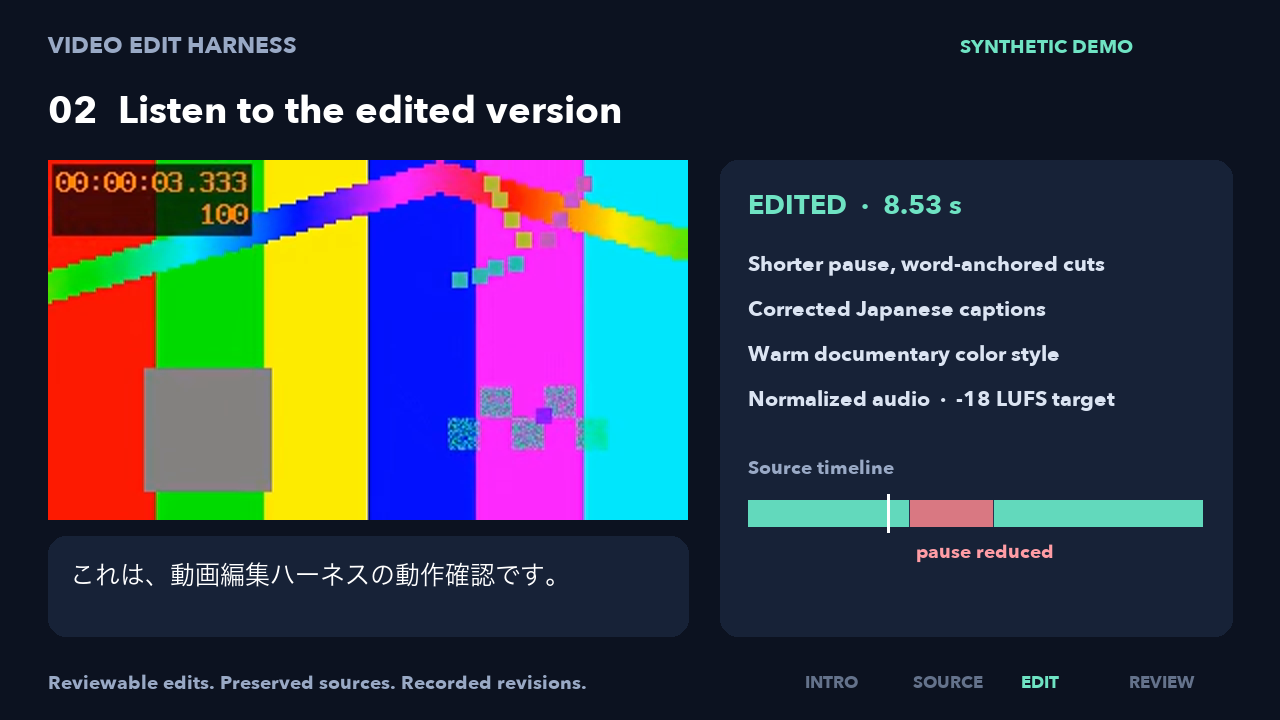
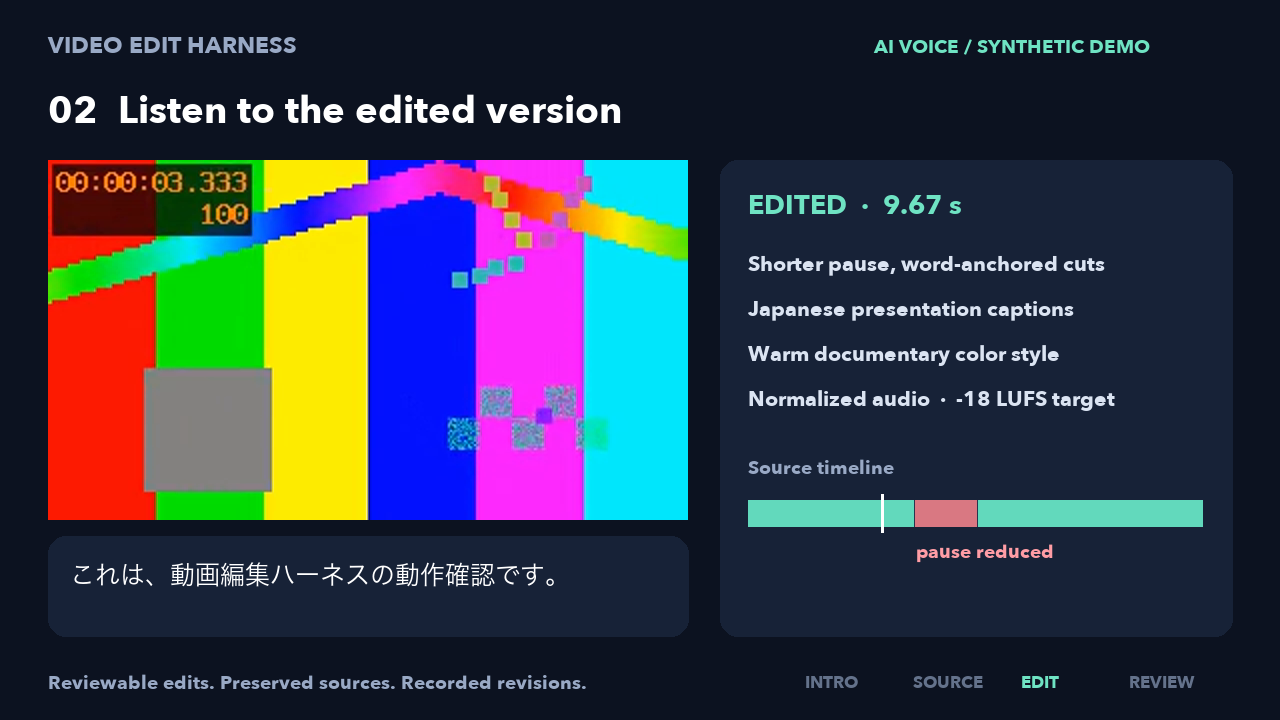
fix: restore CLI grading and improve bilingual demo

diff --git a/tests/test_cli_render_execution.py b/tests/test_cli_render_execution.py
@@ -1,0 +1,35 @@
+"""Exercise CLI dispatch all the way to LUT generation without encoding media."""
+import contextlib
+import tempfile
+import unittest
+from pathlib import Path
+from unittest.mock import patch
+
+from video_harness import cli
+
+
+class CLIRenderExecution(unittest.TestCase):
+    def test_grading_commands_reach_lut_and_renderer(self):
+        for command in ('preview', 'render', 'compare'):
+            with self.subTest(command=command), tempfile.TemporaryDirectory() as tmp:
+                root = Path(tmp)
+                cfg = {'name': 'demo', 'source': str(root/'source.mp4'),
+                       'input_color': 'rec709', 'use_case': 'indoor_talk',
+                       'style': 'natural', 'preview': {'start': 0, 'duration': 1}}
+                argv = ['video-harness', command, str(root/'project.json'),
+                        '--output', str(root/'result')]
+                if command in ('preview', 'compare'):
+                    argv += ['--styles', 'natural']
+                if command == 'compare':
+                    argv += ['--use-cases', 'indoor_talk']
+                with patch('sys.argv', argv), \
+                     patch.object(cli, 'project', return_value=cfg), \
+                     patch.object(cli, 'probe', return_value={'format': {'duration': '2'}}), \
+                     patch.object(cli, 'evidence_run', return_value=contextlib.nullcontext()), \
+                     patch.object(cli, 'build_lut', return_value=root/'look.cube') as lut, \
+                     patch.object(cli, 'render', return_value=root/'video.mp4') as render, \
+                     patch.object(cli, 'evaluate'), patch.object(cli, 'gallery'):
+                    cli.main()
+                lut.assert_called_once()
+                render.assert_called_once()
+                self.assertEqual(render.call_args.args[-1], command != 'render')

diff --git a/video_harness/cli.py b/video_harness/cli.py
@@ -133,7 +133,6 @@ def main():
    with evidence_run(cfg,args.cmd,out,{'plan_sha256':fingerprint(args.plan)['sha256']}):
     if args.cmd=='edit-export':
      export_edit(cfg,plan,out)
-     from .color import build_lut
      cfg['_resolved']=resolve(cfg);build_lut(cfg,None,out/'look.cube')
      from .fcp_check import validate_dtd
      write(out/'dtd-verification.json',validate_dtd(out/'timeline.fcpxml',out/'dtd.log'))

diff --git a/video_harness/__init__.py b/video_harness/__init__.py
@@ -1,3 +1,3 @@
 """Local video editing tools. Originals are never overwritten."""
 
-__version__ = "0.1.0a1"
+__version__ = "0.1.0a2"

diff --git a/README.ja.md b/README.ja.md
@@ -1,0 +1,103 @@
+[English](README.md) | 日本語
+
+# Video Edit Harness
+
+対話動画の編集、色の比較、音声の正規化、字幕、Final Cut Pro XML への引き継ぎを、ローカルで確認しながら進めるためのワークフローです。セッションには、編集方針、文字起こし、単語に紐づく編集計画、レンダリング結果、時刻付きのフィードバック、納品時の確認記録をまとめて保存します。元のメディアと過去の改訂版も保持します。
+
+これは **アルファ版** です。POSIX ツールを備えた macOS または Linux で動作します。Final Cut Pro（FCP）の GUI での読み込みと確認には、macOS とインストール済みの FCP が必要です。FCPXML の検証だけでは、FCP でプロジェクトを開いて再生できたことの証明にはなりません。
+
+## デモ
+
+[![29 秒のデモを見る：元映像、編集結果、修正の流れ](docs/demo/preview.gif)](https://github.com/ekusiadadus/video-edit-harness/releases/download/v0.1.0-alpha.2/video-edit-harness-demo-v2.mp4)
+
+**[音声付きデモを見る・ダウンロードする（MP4）](https://github.com/ekusiadadus/video-edit-harness/releases/download/v0.1.0-alpha.2/video-edit-harness-demo-v2.mp4)** — 元映像 → 間を短くした版 → 字幕・色・音声の修正 → 単語の保持 → FCP への引き継ぎを示します。上の GIF は無音です。MP4 には編集前後の日本語音声が含まれます。
+
+このデモには **OpenAI の `marin` によるAI生成の日本語音声**とテストパターンを使用しています。編集部分は実際にこのツールでレンダリングしたものです。前後の説明画面はワークフローを図示しています。測定結果と制約は[デモの出典・検証記録](docs/demo/README.md)をご覧ください。
+
+Codexで実際の動画を編集する画面を収録する場合は、[Screen Studioの録画手順](docs/SCREEN_RECORDING.ja.md)をご覧ください。上のデモは説明画面を組み合わせたもので、Codex画面の録画ではありません。
+
+## インストール
+
+必要なもの：Python 3.11 以降、[uv](https://docs.astral.sh/uv/)、`PATH` 上の `ffmpeg` と `ffprobe`。クラウド文字起こしには、さらにプロバイダーの認証情報と、その素材をアップロードする許可が必要です。ローカルの Whisper モデルはインストールも実行もしません。
+
+```sh
+git clone --branch v0.1.0-alpha.2 https://github.com/ekusiadadus/video-edit-harness.git
+cd video-edit-harness
+uv sync --locked
+uv run video-harness --help
+uv run video-harness session --help
+```
+
+[リリース](https://github.com/ekusiadadus/video-edit-harness/releases/tag/v0.1.0-alpha.2)には、wheel、ソースアーカイブ、別配布のスキル ZIP、SHA256SUMS が含まれます。wheel にはプリセットが含まれます。このチェックアウトの外で使用する場合、出力先の初期値は現在の作業ディレクトリです。このリリースは PyPI には公開していません。
+
+同梱の `video-editing` スキルをプロジェクトで使うには、`.agents/skills/video-editing` をそのプロジェクトの `.agents/skills/` にコピーします。Claude Code では、相対シンボリックリンクまたはコピーによる `.claude/skills/video-editing` と `CLAUDE.md` を通じて同じディレクトリを利用できます。代わりに、`~/.agents/skills/video-editing` または `~/.claude/skills/video-editing` にコピーしてもかまいません。このチェックアウト以外からスキルを呼び出す場合は、`VIDEO_EDIT_HARNESS_ROOT` にこのチェックアウトのパスを設定してください。更新時は、確認済みのタグに固定してください。スキルの指示だけでは、アップロードや公開は許可されません。
+
+簡潔な手順は[日本語ワークフロー](docs/WORKFLOW.ja.md)を参照してください。スキルのディレクトリ構成は、[Codex のスキル文書](https://developers.openai.com/codex/skills/)と[Claude Code のスキル文書](https://code.claude.com/docs/en/skills)に従っています。
+
+個人用にスキルをインストールするには、スキル ZIP から展開した `video-editing/` ディレクトリを `~/.agents/skills/`（Codex）または `~/.claude/skills/`（Claude Code）にコピーし、チェックアウトの場所を指定します。
+
+```sh
+export VIDEO_EDIT_HARNESS_ROOT="/absolute/path/to/video-edit-harness"
+```
+
+Python wheel は `uv pip install /path/to/video_edit_harness-0.1.0a2-py3-none-any.whl` で仮想環境にもインストールできます。その環境から `video-harness` を実行してください。単独配布のスキルには、テンプレートとエージェント向け指示を参照するため、このチェックアウトが必要です。
+
+## 対話動画のセッション
+
+プロジェクトのテンプレートをコピーし、`source` に素材の**実在する絶対パス**を設定します。素材に合わせて `input_color` を `rec709` または `apple_log` にし、音声トラックとプレビュー区間を確認してください。JSON に認証情報を入れないでください。テンプレート内のパスと単語 ID は仮の値です。
+
+```sh
+cp projects/talk.template.json projects/my-talk.json
+# Edit projects/my-talk.json: source, input_color, preview interval, and editorial brief.
+uv run video-harness session start projects/my-talk.json output/my-session \
+  --brief-file examples/workflow-brief.json --actor codex
+uv run video-harness session status output/my-session --deep
+```
+
+素材のアップロードが許可されたら、`OPENAI_API_KEY` を設定して文字起こしします。自動ルーティングでは、まず OpenAI を試し、Azure OpenAI が設定されていれば次に試します。Azure では `AZURE_OPENAI_API_KEY`、`AZURE_OPENAI_ENDPOINT`、`AZURE_OPENAI_TRANSCRIPTION_DEPLOYMENT`、`AZURE_OPENAI_TIMESTAMP_DEPLOYMENT` を使用し、`AZURE_OPENAI_API_VERSION` は任意です。文字起こしには API 料金が発生します。意味内容を表すテキストと単語の時刻は別々の API 応答から取得します。対応関係を推測で作らず、不一致の警告を確認してください。既存の封印済み文字起こしは `session transcript SESSION TRANSCRIPT_JSON` で追加できます。
+
+```sh
+uv run --extra transcription-cloud video-harness session transcribe output/my-session
+uv run video-harness session context output/my-session --words
+```
+
+返された単語 ID と時刻を使い、章の区間を順序付きで記したストーリー仕様を作成します。省略する箇所にはそれぞれ、正確な単語 ID、省略理由、目標 ID を指定してください。`examples/workflow-story.json` が示すのは **JSON の形式だけ** です。そこにある ID はあなたの素材を指しません。方針、改訂、レビューの各サンプルも同様です。語尾、呼吸、強調、話題の切り替わり、音声だけで内容が伝わるかを確認してください。
+
+```sh
+uv run video-harness session plan output/my-session --spec-file my-story.json --actor codex
+uv run video-harness session approve output/my-session --actor codex --note 'Selected the reviewed plan'
+uv run video-harness session render output/my-session
+uv run video-harness session status output/my-session
+```
+
+`approve` は、指定した実行者が案を選択したことを記録します。`--actor human` は実際に人が判断した場合にのみ使用してください。エージェントによる選択は人間の承認ではありません。最初のレンダリングはプレビューです。映像、音声のみの出力、字幕、フレームの対応関係を確認してください。範囲を絞って確認するには、`session inspect SESSION RENDER_ID --start 432 --duration 8` を実行すると、フィルムストリップ、波形、試聴用音声、元の単語の文脈が作成されます。生成画像や波形だけでは、聞き心地は判断できません。
+
+`session review-page SESSION RENDER_ID` で時刻付きのフィードバックページを作成し、保存した JSON を `session feedback SESSION --data-file FILE` で取り込みます。編集内容の変更には `session revise SESSION --operations-file FILE --feedback-id ID --actor codex --note REASON`、色・音声・字幕の変更には `session address-feedback SESSION ID --actor codex --note REASON` を使います。これらが記録するのは修正候補です。フィードバックを解決するには新しいレンダリング結果を確認してください。レビューレポートは、対象レンダリングの正確な SHA-256 に紐づけ、意味、テンポ、音声だけでの分かりやすさ、カット境界、字幕、色を評価する必要があります。`examples/workflow-review.json` は未レビューの形式例であり、合格済みのレポートではありません。
+
+受け入れたプレビューを基に全編をレンダリングして確認し、その後 FCP 向けにパッケージ化します。
+
+```sh
+uv run video-harness session render output/my-session --full
+uv run video-harness session package output/my-session RENDER_ID --target fcp
+# In FCP on macOS, import and inspect the actual package.
+uv run video-harness session delivery-check output/my-session DELIVERY_ID fcp_import pass gui \
+  --actor human --note 'Imported and checked source links in FCP'
+uv run video-harness session finish output/my-session DELIVERY_ID --actor human
+```
+
+パッケージの FCPXML が対象とするのは、単一素材によるフラットなタイムラインです。必要に応じて、LUT、SRT 字幕、空間マスク、最終音声を個別に適用して確認してください。`finish` の前に、実際に行った GUI 読み込み、再生、色調整、字幕、ミックスの確認を `delivery-check` に記録します。未実施の確認を記録しないでください。FCP から返されたフラットな XML は `session import-fcp` で新しい計画として取り込めます。複雑な FCP タイムラインはこの仕様の対象外です。`session handoff` と `session resume` は、セッション履歴を保持しながらエージェント間で作業を引き継ぐためのものです。
+
+## 色・音声・検証
+
+`use_cases/` の 7 つの用途と `styles/` の 6 つのスタイルは組み合わせて使用できます。室内の対話映像には `indoor_talk` + `natural` を基準にします。`video-harness resolve PROJECT` で適用設定を確認し、`preview` で同じ素材区間を比較し、`review` で人間の評価を記録し、レビュー済みの候補にのみ `adopt` を使ってください。[プリセットの指針](docs/PRESET_CATALOG.md)も参照してください。静的な領域補正は顔を追跡しません。Apple Log 用 LUT には Log から Rec.709 への変換が含まれるため、使用時は FCP の Camera LUT を無効にしてください。HDR/HLG と Apple Log 2 には別途対応する変換が必要です。初期値の -16 LUFS と -1.5 dBTP はプロジェクト上の選択であり、プラットフォームの要件ではありません。
+
+```sh
+make doctor
+make test
+uv run video-harness resolve projects/my-talk.json
+uv run video-harness verify /path/to/final.mp4 --output output/final-check
+```
+
+技術的な検証には、ハッシュ、全編のデコード、トラックと長さ、フレームの有理数による対応付け、FCPXML/DTD の確認が含まれます。映像の目視確認、試聴、FCP GUI での読み込み、配信先での再生を代替するものではありません。過去の開発時には、**108 件のテストが成功**し、**600 秒・160×90 の合成素材**によるセッションでは初回レンダリングが約 42 秒、字幕の再レンダリングが約 13 秒でした。これは一つの環境で得られた開発結果であり、ProRes の性能、モデルの精度、実写素材の品質、FCP GUI での動作を示すものではありません。測定はご自身の条件で再現してください。
+
+設計上の判断と検証の範囲は[意思決定記録](docs/DECISIONS.md)を参照してください。ライセンスは MIT です。[LICENSE](LICENSE)をご覧ください。

diff --git a/README.md b/README.md
@@ -1,30 +1,34 @@
 # Video Edit Harness
 
+English | [日本語](README.ja.md)
+
 A local, reviewable workflow for spoken-video editing, color comparison, audio normalization, subtitles, and Final Cut Pro XML handoff. A session keeps its brief, transcript, word-anchored edit plan, renders, timestamped feedback, and delivery checks together. Source media and prior revisions are retained.
 
 This is an **alpha** release. It runs on macOS or Linux with POSIX tools. Final Cut Pro (FCP) GUI import and review require macOS and an installed copy of FCP. FCPXML validation alone does not prove that FCP opened or played a project.
 
 ## Demo
 
-[![Watch the 27-second demo: source, edited result, and revision workflow](docs/demo/preview.gif)](https://github.com/ekusiadadus/video-edit-harness/releases/download/v0.1.0-alpha.1/video-edit-harness-demo.mp4)
+[![Watch the 29-second demo: source, edited result, and revision workflow](docs/demo/preview.gif)](https://github.com/ekusiadadus/video-edit-harness/releases/download/v0.1.0-alpha.2/video-edit-harness-demo-v2.mp4)
 
-**[Watch / download the demo with sound (MP4)](https://github.com/ekusiadadus/video-edit-harness/releases/download/v0.1.0-alpha.1/video-edit-harness-demo.mp4)** — original → shorter pauses → corrected captions, color and audio → revision cache reuse → FCP handoff. The GIF above is silent; the MP4 includes the original and edited Japanese speech.
+**[Watch / download the demo with sound (MP4)](https://github.com/ekusiadadus/video-edit-harness/releases/download/v0.1.0-alpha.2/video-edit-harness-demo-v2.mp4)** — original → shorter pauses → captions, color and audio → word retention → FCP handoff. The GIF above is silent; the MP4 includes the original and edited Japanese speech.
 
-This walkthrough uses synthetic speech and a test pattern. The edited segment is an actual harness render; the surrounding cards illustrate the workflow. See [demo provenance](docs/demo/README.md) for measured results and limitations.
+This walkthrough uses **AI-generated Japanese speech (OpenAI `marin`)** and a test pattern. The edited segment is an actual harness render; the surrounding cards illustrate the workflow. See [demo provenance](docs/demo/README.md) for measured results and limitations.
+
+For a real screen recording of Codex editing footage, see the [Screen Studio recording guide](docs/SCREEN_RECORDING.md). The walkthrough above is a composed demo, not a Codex screen recording.
 
 ## Install
 
 Requirements: Python 3.11+, [uv](https://docs.astral.sh/uv/), `ffmpeg`, and `ffprobe` on `PATH`. Cloud transcription additionally needs provider credentials and authorization to upload the specific source. No local Whisper model is installed or run.
 
 ```sh
-git clone --branch v0.1.0-alpha.1 https://github.com/ekusiadadus/video-edit-harness.git
+git clone --branch v0.1.0-alpha.2 https://github.com/ekusiadadus/video-edit-harness.git
 cd video-edit-harness
 uv sync --locked
 uv run video-harness --help
 uv run video-harness session --help
 ```
 
-The [release](https://github.com/ekusiadadus/video-edit-harness/releases/tag/v0.1.0-alpha.1) includes a wheel, source archive and a separate skill ZIP with SHA256SUMS. The wheel includes presets; when used outside this checkout, outputs default to the current working directory. PyPI publication is not part of this release.
+The [release](https://github.com/ekusiadadus/video-edit-harness/releases/tag/v0.1.0-alpha.2) includes a wheel, source archive and a separate skill ZIP with SHA256SUMS. The wheel includes presets; when used outside this checkout, outputs default to the current working directory. PyPI publication is not part of this release.
 
 To use the included `video-editing` skill in a project, copy `.agents/skills/video-editing` into that project's `.agents/skills/`. Claude Code can use the same directory through `.claude/skills/video-editing` (a relative symlink or copy) and `CLAUDE.md`. Alternatively copy the skill into `~/.agents/skills/video-editing` or `~/.claude/skills/video-editing`. Set `VIDEO_EDIT_HARNESS_ROOT` to this checkout when invoking it outside the checkout. Pin updates to a reviewed tag. The skill's instructions do not authorize any upload or publication by themselves.
 
@@ -36,7 +40,7 @@ For a personal skill installation, copy the `video-editing/` directory extracted
 export VIDEO_EDIT_HARNESS_ROOT="/absolute/path/to/video-edit-harness"
 ```
 
-The Python wheel can also be installed into a virtual environment using `uv pip install /path/to/video_edit_harness-0.1.0a1-py3-none-any.whl`; invoke `video-harness` from that environment. The standalone skill requires the checkout for templates and agent instructions.
+The Python wheel can also be installed into a virtual environment using `uv pip install /path/to/video_edit_harness-0.1.0a2-py3-none-any.whl`; invoke `video-harness` from that environment. The standalone skill requires the checkout for templates and agent instructions.
 
 ## Spoken-video session
 

diff --git a/docs/SCREEN_RECORDING.ja.md b/docs/SCREEN_RECORDING.ja.md
@@ -1,0 +1,26 @@
+# 実際の編集作業を録画する
+
+[English](SCREEN_RECORDING.md) | 日本語
+
+Screen StudioでCodexの作業画面を録画しながら、ハーネスで実際のMP4・MOVを編集できます。Screen Studioは画面の収録、ハーネスは編集と成果物の生成を担当します。元動画とセッション履歴は残します。
+
+## 準備
+
+専用のCodexウィンドウとプロジェクトを用意します。公開デモには公開できる素材を使い、無関係な会話・ターミナル・メール・ブラウザタブ・通知を閉じます。認証情報は環境変数に設定し、`.env`、シェル履歴、認証情報を含む応答を画面に出しません。動画を編集する許可と、素材や録画を公開する許可は別です。
+
+[README](../README.ja.md)に従ってプロジェクトと編集方針を設定し、色空間、音声トラック、プレビュー範囲を確認します。`session transcribe`を使う前に、対象素材のクラウド送信が許可されていることを確認します。文字起こしはOpenAI、次にAzureの順です。ローカルWhisperは使いません。
+
+## 収録
+
+1. Screen Studioで**Window**を選び、専用のCodexウィンドウを指定します。サイドバーを隠したい場合は**Area**を使います。
+2. 必要がなければマイクとカメラをオフにします。再生音を収録する場合だけシステム音声を有効にし、無関係な音声を止めます。
+3. 録画を開始し、Codexに`video-editing`スキル、プロジェクト、編集方針を指定します。実際の文字起こし確認、単語IDに沿った編集計画、選択、`session render`の実行と結果を収録します。架空のエージェント会話は使いません。
+4. アプリを切り替える前に一度録画を止め、ブラウザのプレビューやFinal Cut Proは別のウィンドウ収録にします。元動画と編集後を音声付きで比較し、時間を指定した指摘と再編集も見せます。
+5. 書き出した録画の原本を残し、別ファイルで待ち時間を短くします。カット、早送り、ナレーション、AI生成音声は明記します。映像と音声の同期、編集点の聞きやすさを確認します。
+6. 全編で私的な情報が映っていないことを確認してから公開し、字幕を付けます。READMEにはMP4と、クリックできる小さなGIFまたは静止画を掲載します。
+
+45〜90秒程度なら「依頼 → 文字起こしと計画 → 実レンダー → 編集前後の試聴 → 指摘と修正 → FCPXML生成」が見せやすい構成です。FCPでの読み込みと再生を見せる場合は実際に行います。XMLの出力だけではGUIでの動作確認にはなりません。
+
+## この環境での録画範囲
+
+Screen Studioはインストール済みで、録画操作の画面を確認しました。この環境のコンピューター操作ではCodexとGhosttyへのアクセスが制限されています。そのためCodexの録画対象ウィンドウの選択と録画開始・停止は手動で行う必要があります。これは自動操作の制限です。今回のREADMEデモは、実際の合成動画とハーネスの編集結果に説明カードを付けたもので、Codex画面の録画は含みません。

diff --git a/docs/demo/README.md b/docs/demo/README.md
@@ -1,9 +1,11 @@
 # Demo provenance
 
-The 27-second walkthrough uses FFmpeg-generated test-pattern video and synthetic Japanese speech. It compares a 10.75-second source with an 8.53-second harness render. No personal source footage or private transcript is included.
+The updated 29-second walkthrough uses FFmpeg-generated test-pattern video and **AI-generated Japanese speech**, synthesized by OpenAI `gpt-4o-mini-tts` with the built-in `marin` voice and an instruction for calm, connected, natural Japanese delivery. See the [official speech guide](https://developers.openai.com/api/docs/guides/text-to-speech). It compares an 11.27-second source with a 9.67-second harness render. No personal footage or private transcript is included.
 
-The edited segment is the actual `warm_documentary` render from the synthetic acceptance session: word-anchored cuts, corrected transcript, and a -18 LUFS normalization target. The presentation captions and surrounding cards were composed for this walkthrough; they are not a screen recording of an editor or an agent.
+The two synthetic utterances contain a deliberately inserted two-second pause. This new MP4 was actually transcribed through OpenAI cloud APIs, attached to a new session, and edited with the observed word timestamps. All 31 word anchors were retained. The frame-aligned source ranges are `[0.0, 4.1]` and `[5.7, 11.2666667]`; 1.6 seconds between the sentences were removed. The original remains unchanged. Ten-millisecond boundary fades are applied only in available padding, never over retained words.
 
-The final cards report the session's measured cache reuse counts: subtitle revision 5/5, audio revision 4/5, color revision 3/5. These are examples from one synthetic session, not a general speed benchmark. The source remains unchanged. FCPXML, SRT, and LUT export are supported; Final Cut Pro GUI import and playback are not demonstrated.
+The edited segment is the actual `warm_documentary` harness render, with a -18 LUFS normalization target. The presentation captions and surrounding cards were composed for this walkthrough and are not an agent/editor screen recording. Presentation captions follow the known TTS script; automatic transcript spelling still needs review (for example, `話し` versus `話`). No human listening approval is inferred from technical verification.
 
-`preview.gif` is a silent, reduced-resolution preview. Click it in the main README to watch or download the full 1280×720 H.264/AAC MP4 with sound. The demo and its separate `DEMO-SHA256SUMS` checksum are attached to the alpha release without changing its source tag or package archives.
+The final cards describe word retention, the voice/audio settings, and the generated FCPXML, SRT, and LUT. Final Cut Pro GUI import and playback are not demonstrated. [Recording guide](../SCREEN_RECORDING.md) describes how to capture a real Codex session.
+
+`preview.gif` is a silent, reduced-resolution preview. Click it in either README to watch or download the 1280×720 H.264/AAC MP4 with sound. The demo is `video-edit-harness-demo-v2.mp4` in the `v0.1.0-alpha.2` release, with a separate `DEMO-SHA256SUMS` file. The original demo and alpha.1 package archives remain available in the older release.

diff --git a/docs/SCREEN_RECORDING.md b/docs/SCREEN_RECORDING.md
@@ -1,0 +1,26 @@
+# Record a real editing session
+
+[English](SCREEN_RECORDING.md) | [日本語](SCREEN_RECORDING.ja.md)
+
+Screen Studio can record a Codex editing session while the harness processes an actual MP4 or MOV. Screen Studio records the screen; the harness writes the edits and deliverables. Keep the unedited file and session history.
+
+## Prepare
+
+Use a dedicated Codex window and one project. For a public demo, use footage you can publish. Close unrelated conversations, terminals, email, browser tabs, and notifications. Keep credentials in environment variables; do not display `.env`, shell history, or provider responses containing credentials. A recording is a separate public artifact: authorization to edit footage does not imply authorization to publish it.
+
+Configure the project and editing brief using the [README](../README.md). Confirm the source color space, audio tracks, and preview range. Authorize the specific cloud transcription upload before running `session transcribe`. OpenAI is tried before Azure; there is no local Whisper model.
+
+## Capture
+
+1. In Screen Studio, choose **Window** and select the dedicated Codex window. Use **Area** if you need to hide a sidebar. Do not record the whole display unnecessarily.
+2. Leave the microphone and camera off unless needed. Enable system audio only when it is needed and you can isolate the playback you intend to capture. Keep unrelated audio off.
+3. Start recording, then ask Codex to use the `video-editing` skill with your project and brief. Capture the real transcript inspection, exact-word edit plan, selection, and `session render` command and result. Do not type a pretend agent transcript.
+4. Stop the first capture before switching applications. Record the browser preview or Final Cut Pro window as a separate capture when appropriate. Play the source and edit so viewers can hear the difference. Timestamped feedback and a second render make a useful final segment.
+5. Export the recordings. Keep the raw recording, trim waiting time in a derived version, and clearly label any cuts, time compression, narration, and AI-generated voice. Check video and audio synchronization and listen across edit boundaries.
+6. Review every frame for private information before publishing. Add captions. For README, publish the MP4 plus a small clickable GIF/poster and describe exactly what is demonstrated.
+
+A useful 45–90-second sequence is: editing request → transcript and plan → real render → before/after playback → feedback and revision → generated FCPXML. Show actual FCP import and playback only if they were performed; an exported XML is not GUI proof.
+
+## This environment's recording boundary
+
+Screen Studio is installed and its recording controls were inspected. Native computer automation cannot access Codex or Ghostty here. Selecting the Codex capture window and starting/stopping that recording must therefore be done manually. This is an automation access restriction, not evidence that Screen Studio cannot record Codex. No Codex screen recording is bundled with the current README walkthrough, which uses an actual synthetic source and harness render with explanatory cards.

diff --git a/.agents/skills/video-editing/SKILL.md b/.agents/skills/video-editing/SKILL.md
@@ -5,7 +5,7 @@ description: Edit spoken footage with a durable, reviewable transcript-to-plan-t
 
 # Video editing with Video Edit Harness
 
-This skill requires the [Video Edit Harness](https://github.com/ekusiadadus/video-edit-harness) checkout (release `v0.1.0-alpha.1`), Python 3.11+, uv, FFmpeg and ffprobe. The standalone skill ZIP contains instructions and its license; it does not bundle the harness or media.
+This skill requires the [Video Edit Harness](https://github.com/ekusiadadus/video-edit-harness) checkout (release `v0.1.0-alpha.2`), Python 3.11+, uv, FFmpeg and ffprobe. The standalone skill ZIP contains instructions and its license; it does not bundle the harness or media.
 
 Find the harness checkout. If `VIDEO_EDIT_HARNESS_ROOT` is set, use that directory. Otherwise, find the checkout containing `pyproject.toml`, `video_harness/`, and this skill; if the skill was copied elsewhere, ask for the checkout location. Run commands from the harness root with `uv run video-harness`. Read its README.md and AGENTS.md; use `uv run video-harness session --help` for exact command syntax.
 

diff --git a/CHANGELOG.md b/CHANGELOG.md
@@ -1,5 +1,14 @@
 # Changelog
 
+## v0.1.0-alpha.2 — 2026-10-05
+
+- English and Japanese READMEs with linked navigation and real screen-recording guides.
+- Updated synthetic source/edit demo with OpenAI-generated Japanese `marin` speech, a freshly transcribed word-anchored edit, and explicit AI voice disclosure.
+- Fixed CLI preview/render failing because a branch-local import shadowed `build_lut`.
+- Included demo documentation and preview assets in source archives.
+
+The README walkthrough is composed from actual synthetic source and render files; it is not a Codex screen recording or an FCP GUI test.
+
 ## v0.1.0-alpha.1 — 2026-10-05
 
 First public alpha of the harness and portable `video-editing` skill.
